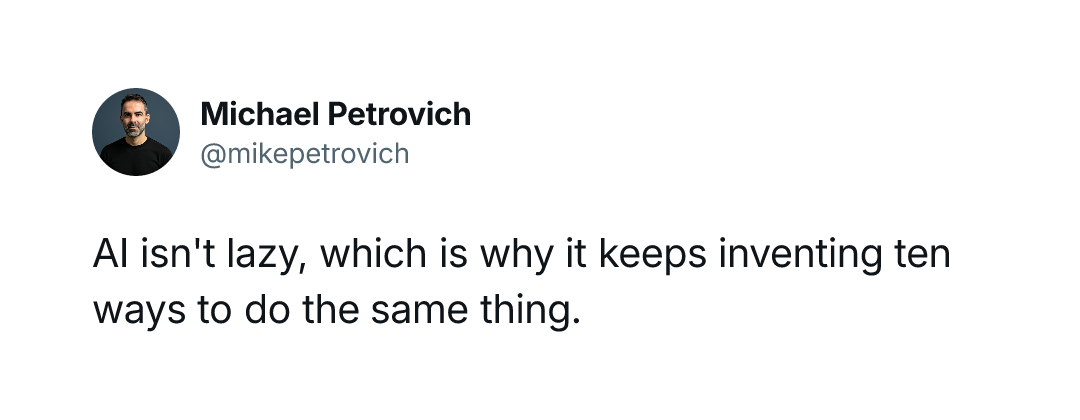
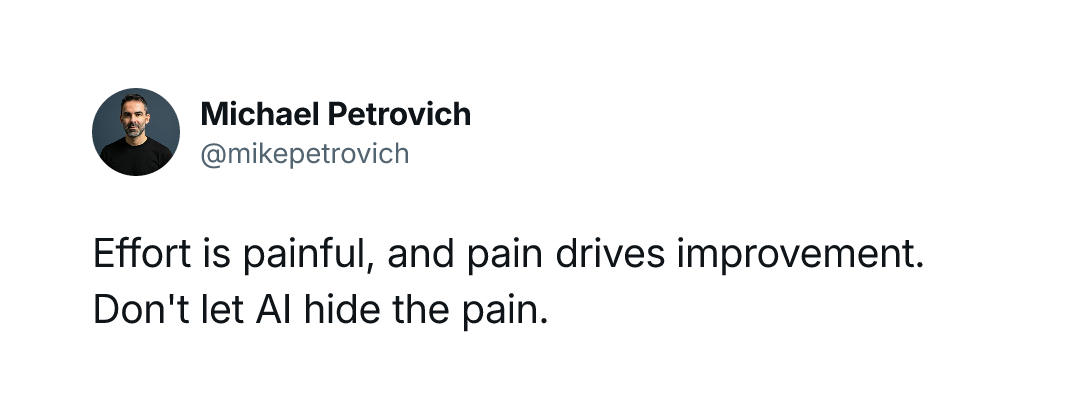
update: revise human-laziness post and regenerate tweet

Changed region(s): [[0.0917, 0.5571, 0.8861, 0.65], [0.0917, 0.681, 0.55, 0.8048]]

diff --git a/posts/published/2026-10-15-human-laziness-is-a-strength/post.md b/posts/published/2026-10-15-human-laziness-is-a-strength/post.md
@@ -1,20 +1,16 @@
 ---
 title: Human laziness is a strength
-subtitle: AI isn't lazy, which is why it keeps inventing ten ways to do the same thing.
+subtitle: Effort is painful, and pain drives improvement. Don't let AI hide the pain.
 date: 2026-10-15
 topics: [ai, engineering]
 ---
 
-Particularly in software development, the fact that AI is *not* lazy can cause problems. Human laziness, the productive kind, is often a strength.
+Good software engineers are lazy. A good engineer will refuse to do the same thing a 3rd time. Instead, they'll find a way to automate it or abstract it away so the 4th time or 400th requires little effort. The friction of manual effort is what leads to simpler, better-abstracted systems.
 
-Laziness forces us, instead of doing the same thing in a slightly different way by hand, to look for a more scalable, reusable, lower-effort way to do the same thing. Rather than doing it for the hundredth time, we create a tool, framework, or process that does it for us.
+Bad engineers will continue toiling away repetitively. And they'll do it slightly differently each time, precisely because it's not systematized.
 
-That instinct matters. Without it, teams end up with ten different ways of doing the same thing. Laziness pushes us to create one thing that does it consistently and easily, and then reuse that.
+Which engineer does AI mimic? In my experience, it's always been the second. AI will cheerfully continue a repetitive manual pattern until there are 10 different ways of doing the same thing. I've never seen it stop and question whether there's a better way.
 
-AI will happily generate another one-off solution. It does not get bored. It does not feel the friction of repeating nearly the same work again. So it can keep producing variations that work locally but fail to converge on a shared abstraction.
+When there's a gap between what a system needs to do and how it actually works, pain is the best signal for improving the system. So don't hide the signal.
 
-The engineer's "I don't want to do this again" is often the signal that something should be generalized. That signal is easy to lose when generation is cheap and tireless.
-
-Good engineering laziness is not avoidance. It is impatience with unnecessary repetition. It asks: what would make this trivial next time?
-
-Used well, that question is how we get better tools, clearer processes, and systems that stay coherent as they grow.
+Is AI hiding yours?
